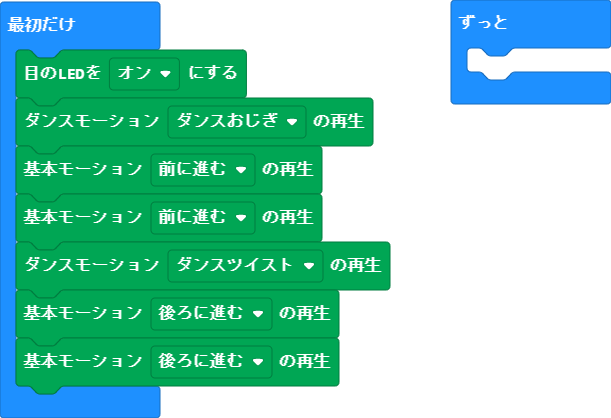
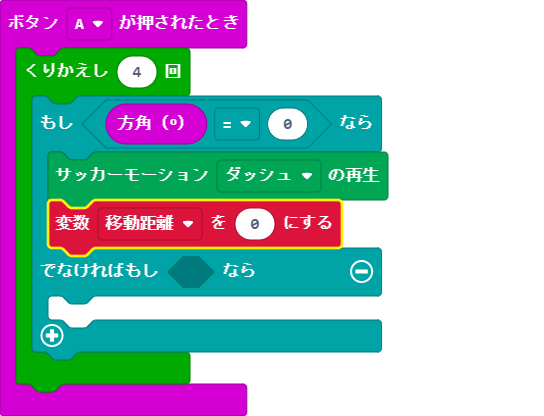
Update main.blocks, main.ts

diff --git a/main.ts b/main.ts
@@ -1,10 +1,11 @@
-plenbit.eyeLed(plenbit.LedOnOff.On)
-plenbit.danceMotion(plenbit.DanceMotions.DanceBow)
-plenbit.stdMotion(plenbit.StdMotions.WalkForward)
-plenbit.stdMotion(plenbit.StdMotions.WalkForward)
-plenbit.danceMotion(plenbit.DanceMotions.TwistDance)
-plenbit.stdMotion(plenbit.StdMotions.WalkBack)
-plenbit.stdMotion(plenbit.StdMotions.WalkBack)
-basic.forever(function () {
-	
+let 移動距離 = 0
+input.onButtonPressed(Button.A, function () {
+    for (let index = 0; index < 4; index++) {
+        if (input.compassHeading() == 0) {
+            plenbit.soccerMotion(plenbit.SocMotions.LongDribble)
+            移動距離 = 0
+        } else if (false) {
+        	
+        }
+    }
 })
